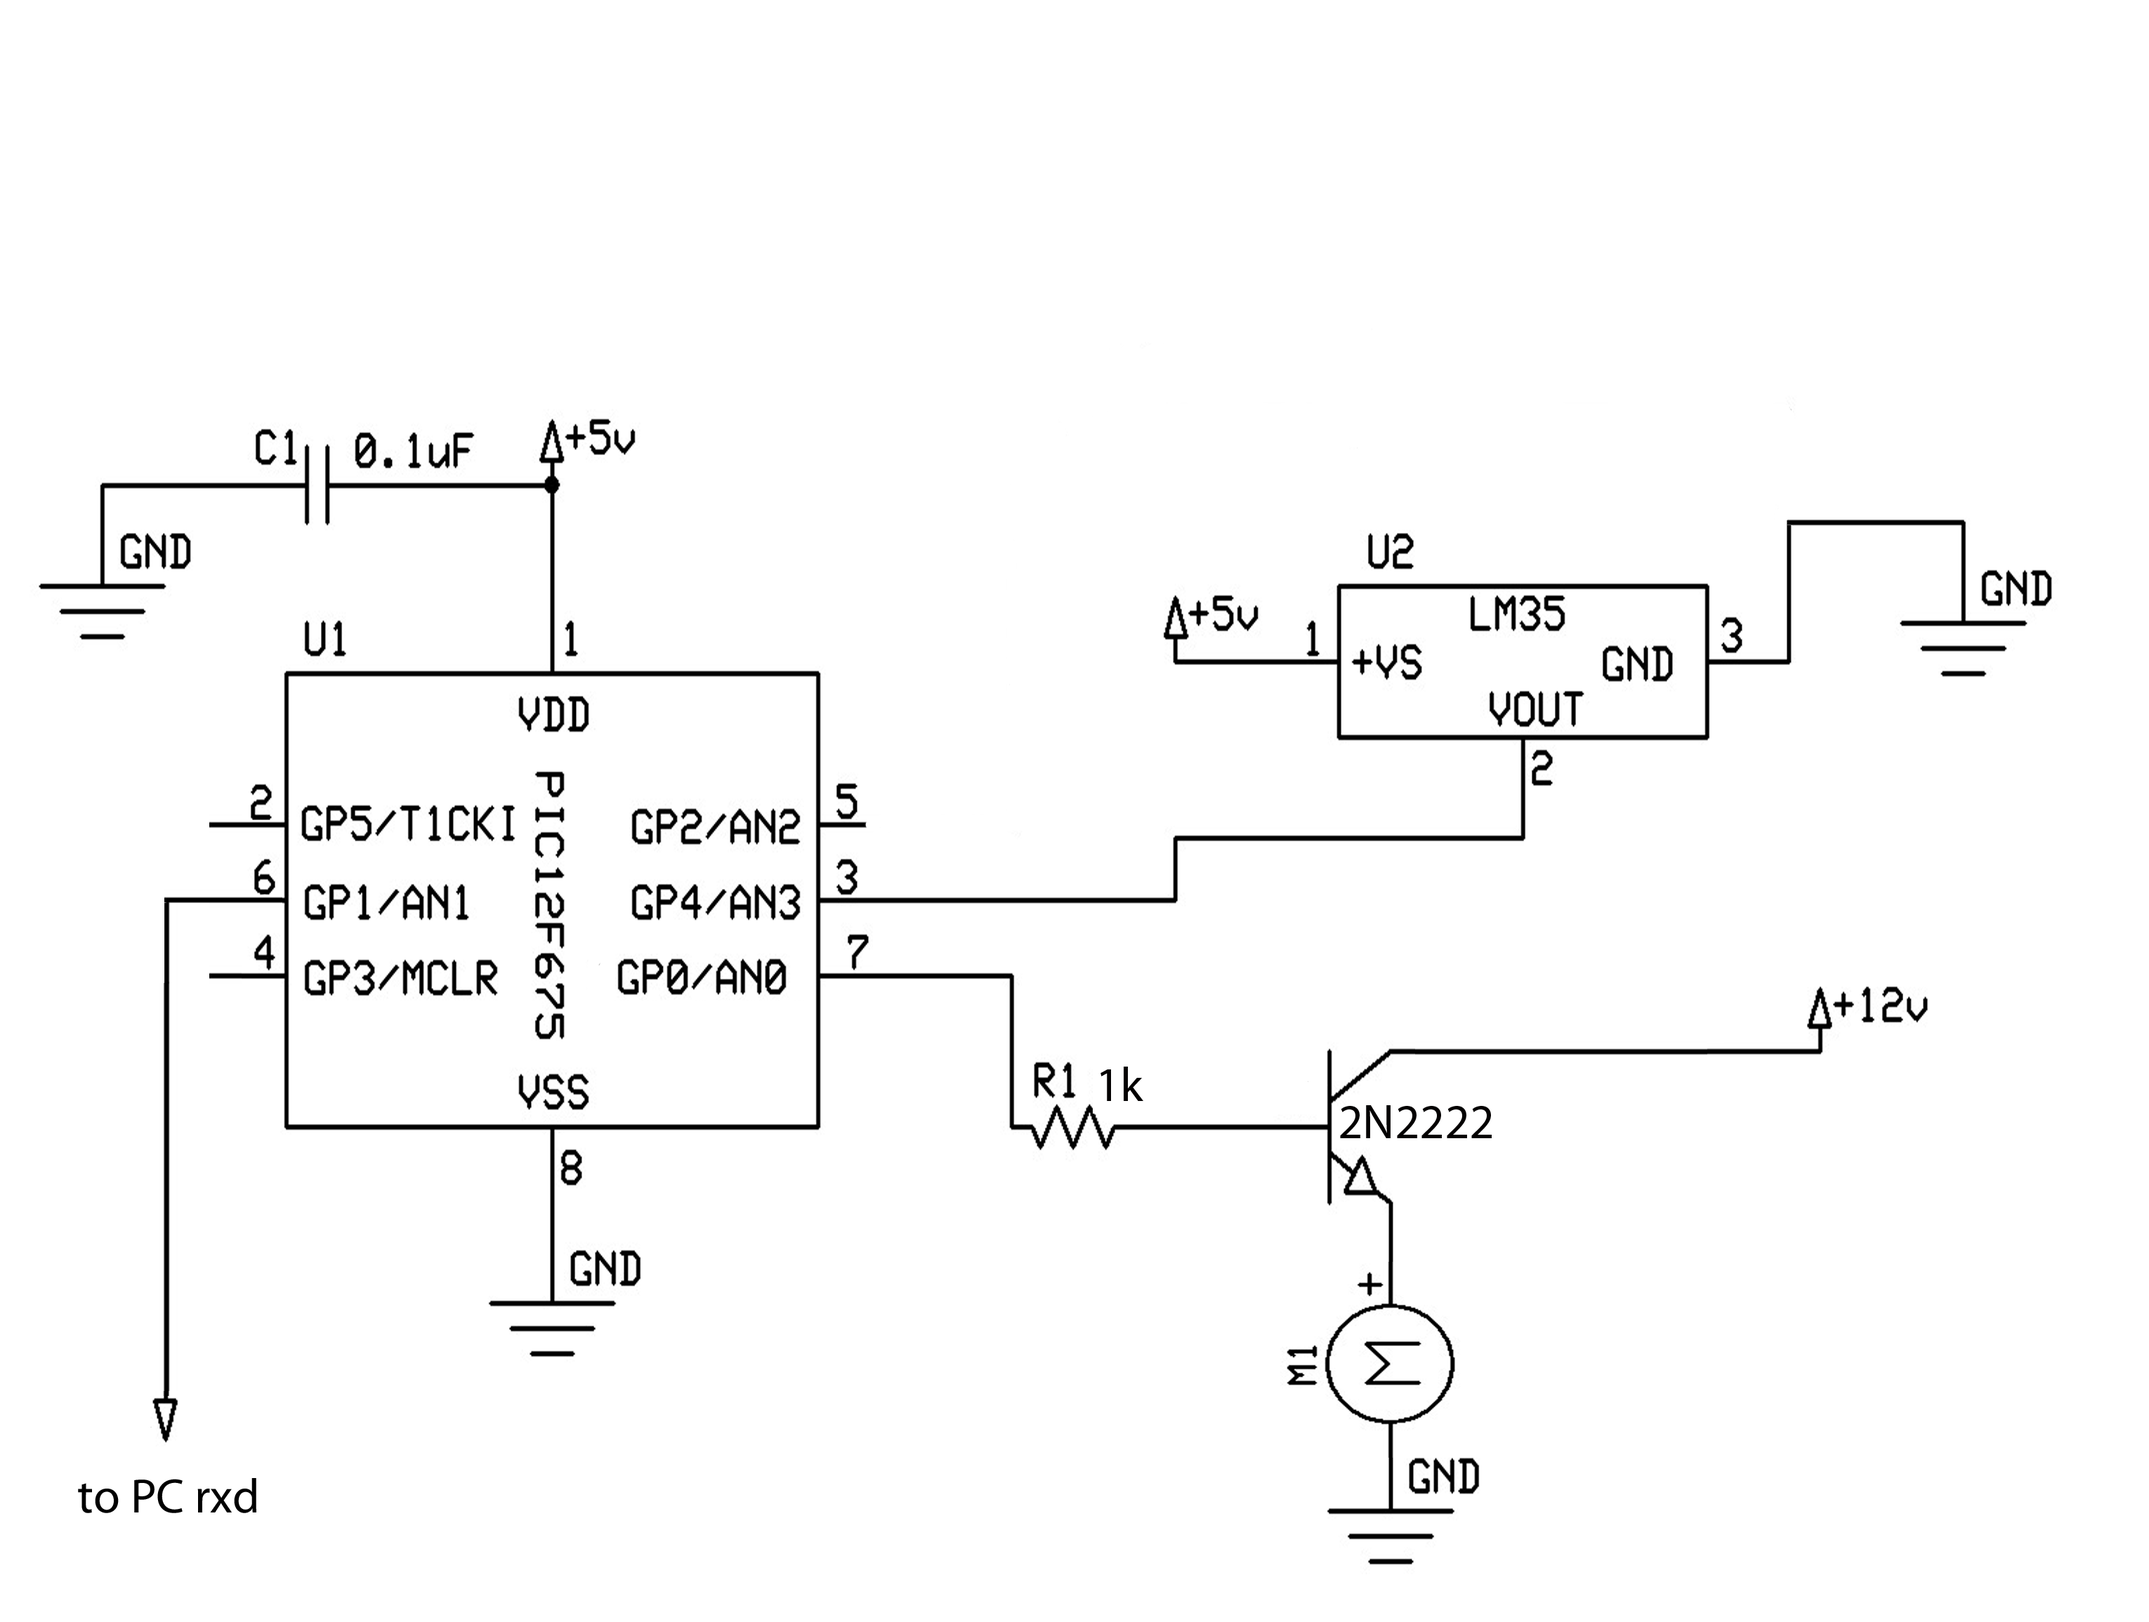
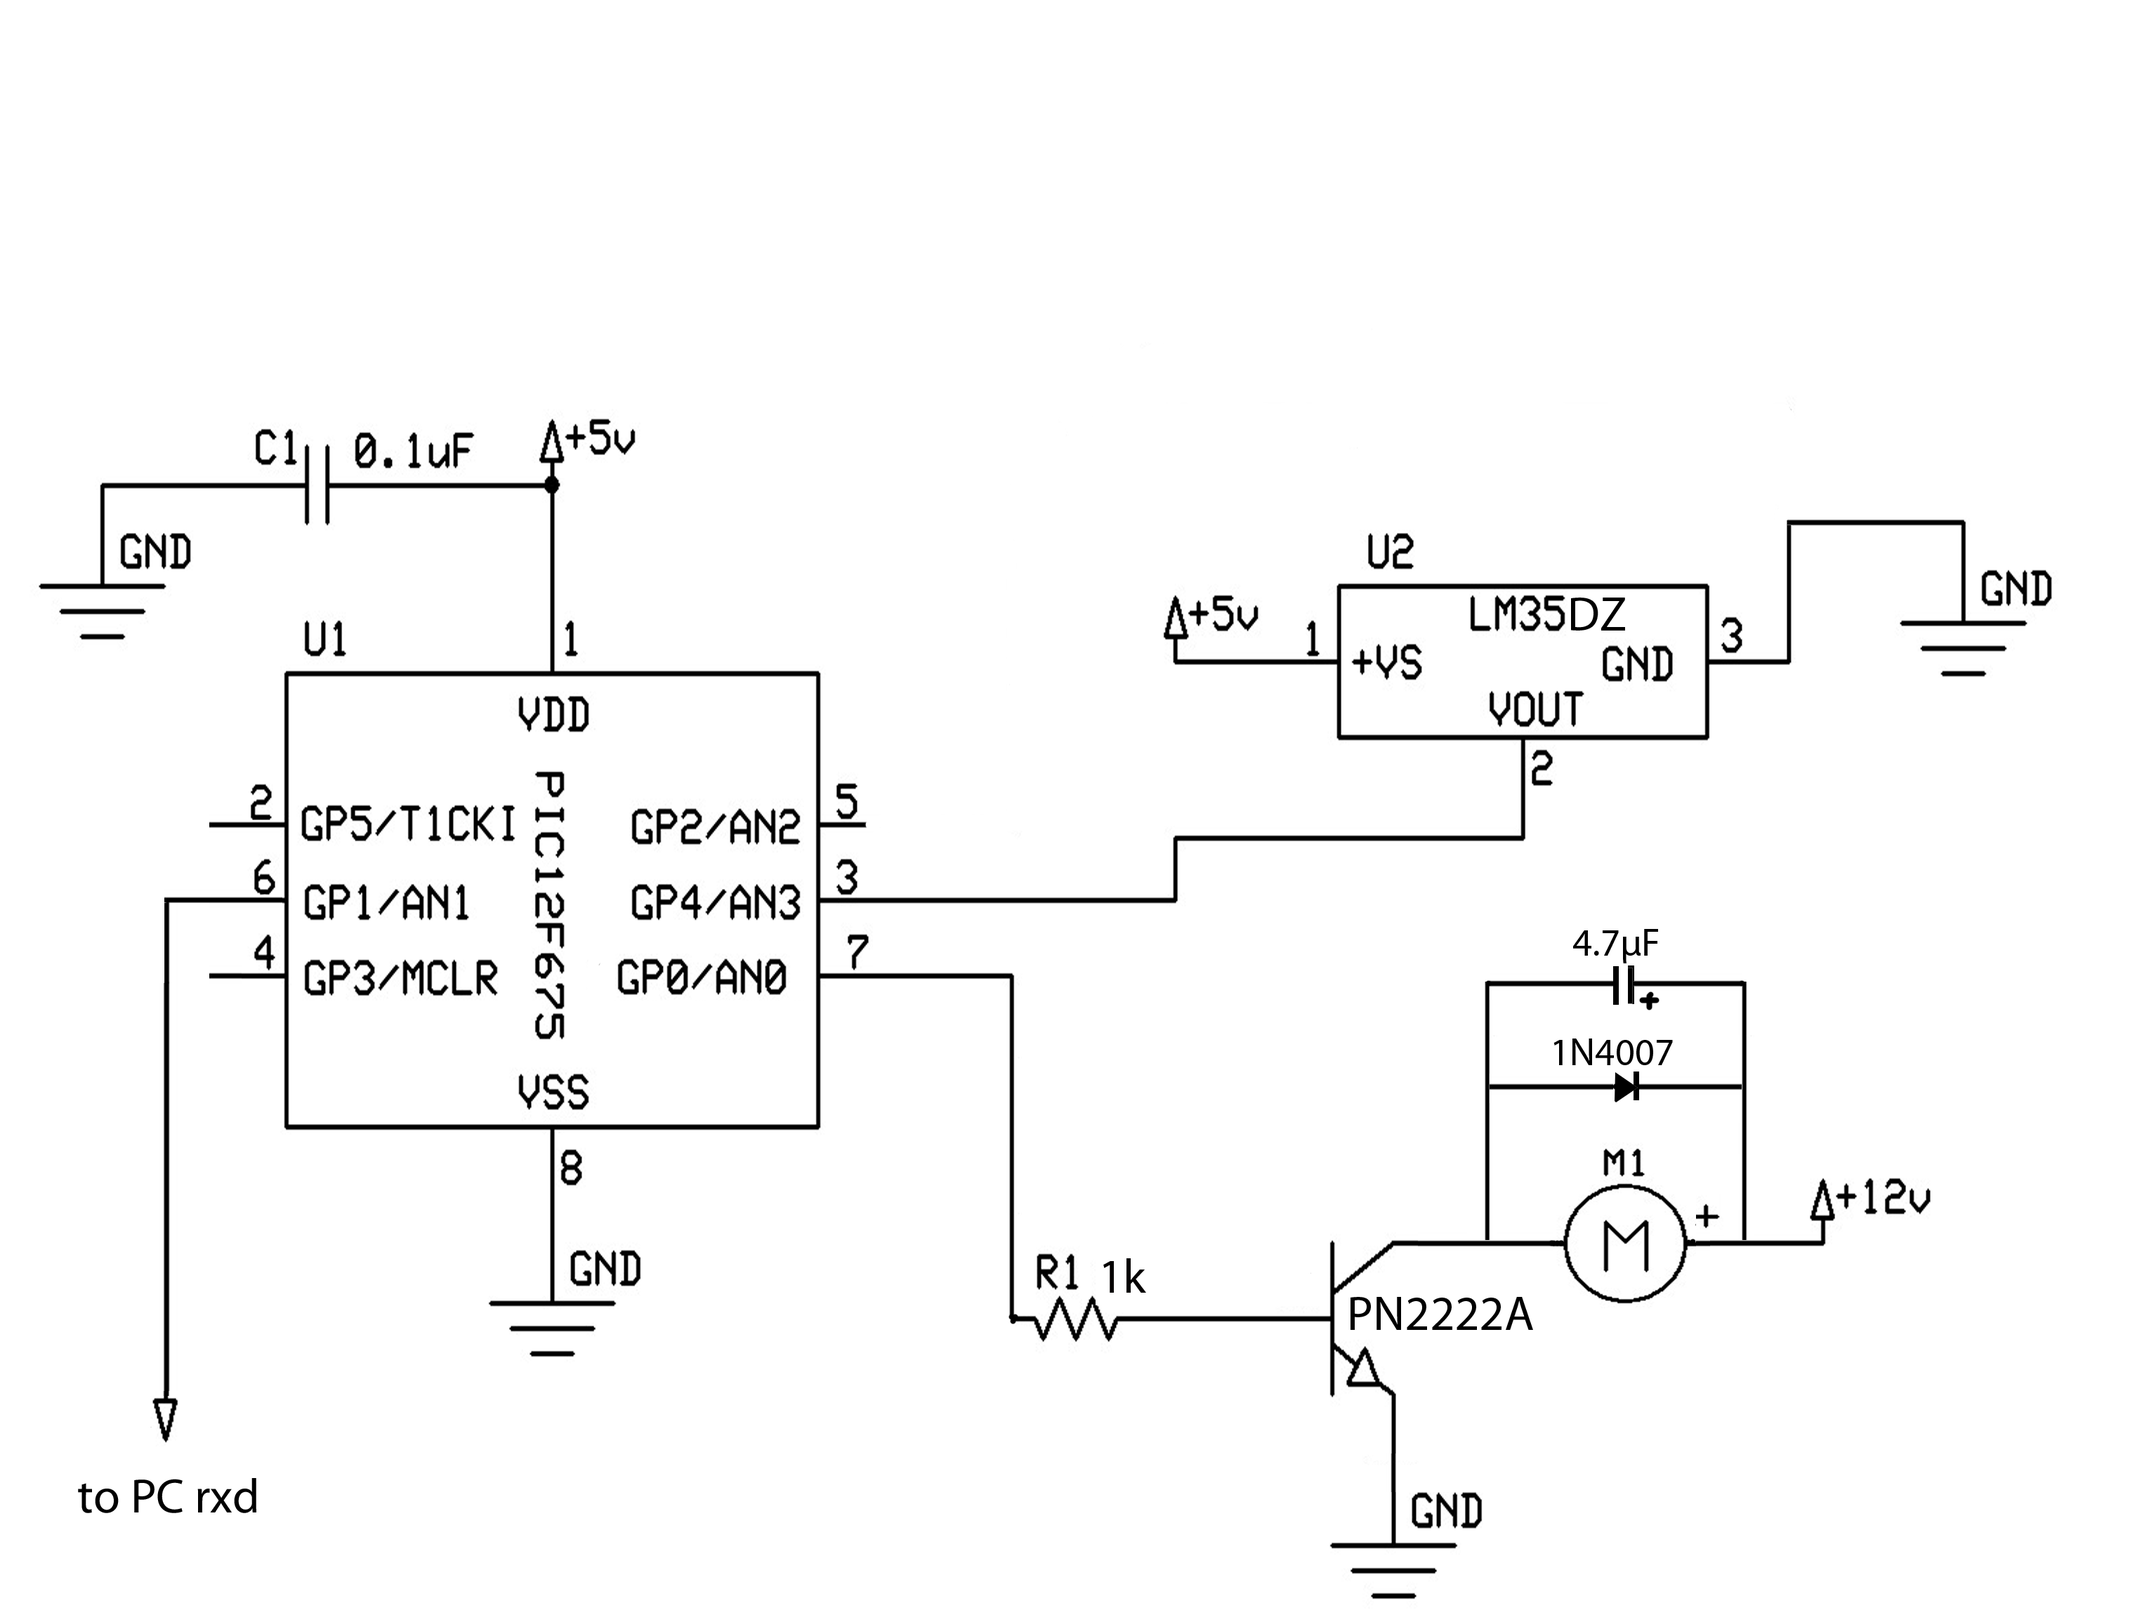
clean previous mess, new one is tested and fully working

Changed region(s): [[0.4657, 0.6545, 0.9003, 0.9974], [0.652, 0.561, 0.9003, 0.6857]]

diff --git a/projects/pwm_fan/pwm_fan.c b/projects/pwm_fan/pwm_fan.c
@@ -14,12 +14,13 @@
  *  Revision : None
  */
 
-/*  name            : pwm_fan.c
- *	purpose         : pwm fan for Dreambox DM920
- *	URL             : https://github.com/munjeni/pic_12F675_projects
- *	code based on   : two authors work above this comment
- *	date            : 29.04.2019
- *	Compiler        : xc8 v2.05
+/*  Name            : pwm_fan.c
+ *  Purpose         : pwm fan for Dreambox DM920
+ *  URL             : https://github.com/munjeni/pic_12F675_projects/tree/master/projects/pwm_fan
+ *  Code based on   : two authors work above this comment
+ *  Date            : 29.04.2019
+ *  Compiler        : xc8 v2.05
+ *  IDE             : xc8 ide v5.15
  */
 
 /*
@@ -46,8 +47,8 @@ GP4/AN3/T1G/OSC2/CLKOUT  3 |          | 6  GP1/AN1/CIN-/VREF/ICSPCLK
     ANSEL — ANALOG SELECT REGISTER
     ------------------------------------------------------------
       U-0   RW-0    RW-0    RW-0   RW-1   RW-1   RW-1   RW-1      (default values, 1=set, 0=set, x=unknown)
-	  —    ADCS2   ADCS1   ADCS0   ANS3   ANS2   ANS1   ANS0
-	bit7    bit6   bit5    bit4    bit3   bit2   bit1   bit0
+	  -    ADCS2   ADCS1   ADCS0   ANS3   ANS2   ANS1   ANS0
+	 bit7   bit6    bit5    bit4   bit3   bit2   bit1   bit0
 	------------------------------------------------------------
 	
 	bit 7 Unimplemented: Read as ‘0’.
@@ -74,7 +75,7 @@ GP4/AN3/T1G/OSC2/CLKOUT  3 |          | 6  GP1/AN1/CIN-/VREF/ICSPCLK
 	ADCON0 — A/D CONTROL REGISTER	
     ------------------------------------------------------------
 	RW-0    RW-0    U-0     U-0    RW-0   RW-0    RW-0     RW-0     (default values, 1=set, 0=set, x=unknown)
-	ADFM    VCFG    —        —     CHS1   CHS0   GO/DONE   ADON
+	ADFM    VCFG     -       -     CHS1   CHS0   GO/DONE   ADON
 	bit7    bit6   bit5    bit4    bit3   bit2    bit1     bit0
 	------------------------------------------------------------
 
@@ -107,7 +108,7 @@ GP4/AN3/T1G/OSC2/CLKOUT  3 |          | 6  GP1/AN1/CIN-/VREF/ICSPCLK
 	TRISIO — GPIO TRISTATE REGISTER
 	-----------------------------------------------------------------
 	 U-0     U-0    RW-x      RW-x     R-1        RW-x     RW-x     RW-x   (default values, 1=set, 0=set, x=unknown)
-	  —       —    TRISIO5  TRISIO4  TRISIO3    TRISIO2  TRISIO1   TRISIO0
+	  -       -    TRISIO5  TRISIO4  TRISIO3    TRISIO2  TRISIO1   TRISIO0
 	bit7     bit6   bit5      bit4    bit3        bit2     bit1     bit0
 	-----------------------------------------------------------------
 
@@ -121,17 +122,26 @@ GP4/AN3/T1G/OSC2/CLKOUT  3 |          | 6  GP1/AN1/CIN-/VREF/ICSPCLK
 	
 	*/
 
+// PIC12F675 Configuration Bit Settings
+#pragma config FOSC = INTRCIO	// Oscillator Selection bits (INTOSC oscillator: I/O function on GP4/OSC2/CLKOUT pin, I/O function on GP5/OSC1/CLKIN)
+#pragma config WDTE = OFF		// Watchdog Timer Enable bit (WDT disabled)
+#pragma config PWRTE = ON		// Power-Up Timer Enable bit (PWRT enabled)
+#pragma config MCLRE = OFF		// MCLR
+#pragma config BOREN = ON		// Brown-out Detect Enable bit (BOD enabled)
+#pragma config CP = OFF			// Code Protection bit (Program Memory code protection is disabled)
+#pragma config CPD = OFF		// Data Code Protection bit (Data memory code protection is disabled)
+
 #include <xc.h>
 #include <stdio.h>	/* for sprintf */
-#include <stdint.h>	/* For uint8_t definitions etc */
-#include <string.h>	/* For strlen */
+#include <stdint.h>	/* For uint16_t definition */
 
-// set 0 to disable uart debug
-#define ENABLE_UART_DEBUG 1
+// set 0 to disable debuging
+#define ENABLE_UART_DEBUG   0
+#define DEBUG_TO_EEPROM   0
 
 // Define CPU Frequency
 // This must be defined, if __delay_ms() or __delay_us() functions are used in the code
-#define _XTAL_FREQ   4000000
+#define _XTAL_FREQ	4000000
 
 /*
 	PIC TIMER0 Calculator
@@ -147,31 +157,23 @@ GP4/AN3/T1G/OSC2/CLKOUT  3 |          | 6  GP1/AN1/CIN-/VREF/ICSPCLK
 	(1000000/256) * 32 ~= 8mS				
 */
 
-// PIC12F675 Configuration Bit Settings 
-#pragma config FOSC = INTRCIO	// Oscillator Selection bits (INTOSC oscillator: I/O function on GP4/OSC2/CLKOUT pin, I/O function on GP5/OSC1/CLKIN)
-#pragma config WDTE = OFF		// Watchdog Timer Enable bit (WDT disabled)
-#pragma config PWRTE = ON		// Power-Up Timer Enable bit (PWRT enabled)
-#pragma config MCLRE = OFF		// MCLR
-#pragma config BOREN = ON		// Brown-out Detect Enable bit (BOD enabled)
-#pragma config CP = OFF			// Code Protection bit (Program Memory code protection is disabled)
-#pragma config CPD = OFF		// Data Code Protection bit (Data memory code protection is disabled)
-
 #if ENABLE_UART_DEBUG
-#define Baudrate              1200                      //bps
-#define OneBitDelay           (1000000/Baudrate)
-#define DataBitCount          8                         // no parity, no flow control
-#define UART_TX               GP1						// UART TX pin
-#define UART_TX_DIR			  TRISIO1					// UART TX pin direction register
+#define Baudrate        1200                //bps
+#define OneBitDelay     (1000000/Baudrate)  //...this might be wrong delay! See https://drive.google.com/file/d/0BwXmKaSw75eKdjI2elFsWW5Rd28/view
+#define DataBitCount    8                   // no parity, no flow control
+#define UART_TX         GP1                 // UART TX pin
+#define UART_TX_DIR     TRISIO1             // UART TX pin direction register
 #endif
 
-#define PWM_Pin               GP0
+#define PWM_Pin GP0
 // Define PWM variable, It can have a value 
 // from 0 (0% duty cycle) to 255 (100% duty cycle)
 unsigned char PWM = 0;
 
 #if ENABLE_UART_DEBUG
-void UART_Transmit(const char DataValue)
+void UART_Transmit(unsigned char DataValue)
 {
+	unsigned char i;
 	/* Basic Logic
 	   
 	   TX pin is usually high. A high to low bit is the starting bit and 
@@ -184,10 +186,10 @@ void UART_Transmit(const char DataValue)
 	UART_TX = 0;
 	__delay_us(OneBitDelay);
 
-	for (unsigned char i=0; i < DataBitCount; i++)
+	for (i=0; i < DataBitCount; i++)
 	{
 		// Set Data pin according to the DataValue
-		if (((DataValue>>i)&0x1) == 0x1)	//if Bit is high
+		if (((DataValue >> i) & 0x1) == 0x1)	//if Bit is high
 		{
 			UART_TX = 1;
 		}
@@ -212,66 +214,71 @@ unsigned int GetADCValue(void)
 
     __delay_ms(10);      // Time for Acqusition capacitor to charge up and show correct value
 
-	GO_nDONE  = 1;		 // Enable Go/Done
+	GO_nDONE = 1;		 // Enable Go/Done
 
 	while(GO_nDONE);     //wait for conversion completion
 
 	return ((ADRESH<<8)+ADRESL);   // Return 10 bit ADC value
 }
 
-void interrupt ISR(void)
+void __interrupt() ISR(void)
 {
-	if(T0IF)  //If Timer0 Interrupt
+	if(T0IF)            // If Timer0 Interrupt
 	{
-		if(PWM_Pin)	// if PWM_Pin is high
-		{
-			PWM_Pin = 0;
-			TMR0 = PWM;
-		}
-		else	     // if PWM_Pin is low
-		{
-			PWM_Pin = 1;
-			TMR0 = 255 - PWM;
-		}
+        if (!PWM)       // Since this frequency is in audible range, shutdown motor noise
+        {
+            PWM_Pin = 0;
+            TMR0 = PWM;
+        }
+        else
+        {
+            if(PWM_Pin)     // if PWM_Pin is high
+            {
+                PWM_Pin = 0;
+                TMR0 = PWM;
+            }
+            else            // if PWM_Pin is low
+            {
+                PWM_Pin = 1;
+                TMR0 = 255 - PWM;
+            }
+        }
 
-		T0IF = 0;   // Clear the interrupt
+		T0IF = 0;       // Clear the interrupt
 	}
 }
 
-void main()
+void main(void)
 {	
 	unsigned int ADC_value = 0;
-	//unsigned int ADC_value = 71;	//(Temperature: 34.79 C)(pwm 30% = 77)
-	//unsigned int ADC_value = 113;	//(Temperature: 55.37 C)(pwm 100% = 255)
 #if ENABLE_UART_DEBUG
-	uint16_t temperature = 1;
+	unsigned int temperature = 1;
 	char str1[3];
 	char str2[3];
 	char str3[5];
-	size_t i;
+	uint8_t i;
 #endif
 
-	// Initialize GP4 as ADC input pin
-	ANSEL  = 0x18;	      // Clear Pin selection bits
-	TRISIO = 0x10;       // GP4 input, rest all output
-	ADCON0 = 0x81;		 // Turn on the A/D Converter ADFM and ADON
-	CMCON  = 0x07;		 // Shut off the Comparator, so that pins are available for ADC
-	VRCON  = 0x00;	     // Shut off the Voltage Reference for Comparator
+	OSCCAL = __osccal_val();    // Load Oscillator Calibration
+	ANSEL  = 0x48;              // Clear Pin selection bits (set FOSC/4 ; ANS3 analog input)
+	TRISIO = 0x10;              // GP4 input, rest all output
+	GPIO   = 0x00;              // Clear gpio
+	ADCON0 = 0x81;		        // Turn on the A/D Converter ADFM and ADON
+	CMCON  = 0x07;		        // Shut off the Comparator, so that pins are available for ADC
+	VRCON  = 0x00;	            // Shut off the Voltage Reference for Comparator
 
 	// Initialize PWM
 	// Use timer0 for making PWM
-	OPTION_REG &= 0xCC;		// Intialise timer0
-	//INTCON = 0b10100000;		// Global Interrupt Enabled and TMR0 Overflow Interrupt Enabled
-	TMR0 = 0;		// Preload timer register
-	T0IE = 1;		// Enable Timer0 interrupt
-	GIE = 1;		// Enable global interrupts
-
-	GPIO = 0x00;       // Make all pins 0
+	OPTION_REG &= 0xcc;         // Intialise timer0 (prescaler 1/32)
+	//INTCON = 0b10100000;      // Global Interrupt Enabled and TMR0 Overflow Interrupt Enabled
+	TMR0 = 0;                   // Preload timer register
+	T0IE = 1;                   // Enable Timer0 interrupt
+	GIE = 1;                    // Enable global interrupts
 
 #if ENABLE_UART_DEBUG
 	// Intialize Soft UART
-	UART_TX = 1;			// TX pin is high in idle state	GP1=1
-	UART_TX_DIR = 0;		// set TRISIO1=0 as output direction
+	UART_TX = 1;                // TX pin is high in idle state	GP1=1
+	UART_TX_DIR = 0;            // set TRISIO1=0 as output direction
 #endif
 
 	while(1)
@@ -281,88 +288,20 @@ void main()
 #if ENABLE_UART_DEBUG		
 		for (i=0; i<5; i++) str3[i] = '\0';
 #endif
-
-		/*
-		pwm table:
-		------------
-		(adc)71 =  (pwm)77  = 30%
-		(adc)77 =  (pwm)102 = 40%
-		(adc)83 =  (pwm)127 = 50%
-		(adc)89 =  (pwm)152 = 60%
-		(adc)95 =  (pwm)177 = 70%
-		(adc)101 = (pwm)202 = 80%
-		(adc)107 = (pwm)227 = 90%
-		(adc)113 = (pwm)255 = 100%
-		*/
 	
-		if (ADC_value < 71) {
-			PWM = 0;
-#if ENABLE_UART_DEBUG
-			sprintf(str3, "%u", ADC_value);
-#endif
-		}
-	
-		if (ADC_value >= 71 && ADC_value < 77) {
-			PWM = 77;
-#if ENABLE_UART_DEBUG
-			sprintf(str3, "%u", ADC_value);
-#endif
-		}
-	
-		if (ADC_value >= 77 && ADC_value < 83) {
-			PWM = 102;
-#if ENABLE_UART_DEBUG
-			sprintf(str3, "%u", ADC_value);
-#endif
-		}
-	
-		if (ADC_value >= 83 && ADC_value < 89) {
-			PWM = 127;
-#if ENABLE_UART_DEBUG
-			sprintf(str3, "%u", ADC_value);
-#endif
-		}
-	
-		if (ADC_value >= 89 && ADC_value < 95) {
-			PWM = 152;
-#if ENABLE_UART_DEBUG
-			sprintf(str3, "%u", ADC_value);
-#endif
-		}
-	
-		if (ADC_value >= 95 && ADC_value < 101) {
-			PWM = 177;
-#if ENABLE_UART_DEBUG
-			sprintf(str3, "%u", ADC_value);
-#endif
-		}
-	
-		if (ADC_value >= 101 && ADC_value < 107) {
-			PWM = 202;
-#if ENABLE_UART_DEBUG
-			sprintf(str3, "%u", ADC_value);
-#endif
-		}
-	
-		if (ADC_value >= 107 && ADC_value < 113) {
-			PWM = 227;
-#if ENABLE_UART_DEBUG
-			sprintf(str3, "%u", ADC_value);
-#endif
-		}
-	
-		if (ADC_value >= 113) {
-			PWM = 255;
-#if ENABLE_UART_DEBUG
-			sprintf(str3, "%u", ADC_value);
-#endif
-		}
+		if (ADC_value < 75) PWM = 0;
+		if (ADC_value >= 75 && ADC_value < 78) PWM = 200;
+		if (ADC_value >= 78 && ADC_value < 81) PWM = 215;
+		if (ADC_value >= 81 && ADC_value < 84) PWM = 230;
+		if (ADC_value >= 84 && ADC_value < 87) PWM = 245;
+		if (ADC_value >= 87) PWM = 255;
 
 #if ENABLE_UART_DEBUG
 		temperature = (ADC_value*49);
 
 		sprintf(str1, "%u%u", (temperature/1000)%10, (temperature/100)%10);
 		sprintf(str2, "%u%u", (temperature/10)%10, (temperature/1)%10);
+		sprintf(str3, "%u", ADC_value);
 
 		UART_Transmit('T');
 		UART_Transmit('e');
@@ -377,13 +316,9 @@ void main()
 		UART_Transmit('e');
 		UART_Transmit(':');
 		UART_Transmit(' ');
-
 		for (i=0; i<2; i++) UART_Transmit(str1[i]);
-
 		UART_Transmit('.');		
-
 		for (i=0; i<2; i++) UART_Transmit(str2[i]);
-
 		UART_Transmit(' ');
 		UART_Transmit('C');
 
@@ -394,10 +329,35 @@ void main()
 		UART_Transmit('C');
 		UART_Transmit(':');
 		UART_Transmit(' ');
+		for (i=0; i<5; i++)
+        {
+            if (str3[i] == '\0') break;
+            UART_Transmit(str3[i]);
+        }
 
-		for (i=0; i<strlen(str3); i++) UART_Transmit(str3[i]);
+		UART_Transmit(0x0D);
+        UART_Transmit(0x0A);
 
-		UART_Transmit(0x0A);
+#if DEBUG_TO_EEPROM
+        /*  In case you can't get UART working so write log to EEPROM
+         *  e.g. T=18.62 celsius A=38 adc_value :)
+         */
+        eeprom_write(0, 'T');
+        eeprom_write(1, '=');
+        eeprom_write(2, str1[0]);
+        eeprom_write(3, str1[1]);
+        eeprom_write(4, '.');
+        eeprom_write(5, str2[0]);
+        eeprom_write(6, str2[1]);
+        eeprom_write(7, ' ');
+        eeprom_write(8, 'A');
+        eeprom_write(9, '=');
+		for (i=10; i<15; i++)
+        {
+            if (str3[i-10] == '\0') break;
+            eeprom_write(i, str3[i-10]);
+        }
+#endif
 #endif
 
 		__delay_ms(500);	// Half second delay before next reading	

diff --git a/README.md b/README.md
@@ -55,7 +55,7 @@ Assembly.
 | 5  | RGB LED display  |  [URL](projects/rgb_c) |
 | 6  | Output the Internal PIC clock | [URL](projects/osc_c) |
 | 7  | Light Dependent resistor Circuit |  [URL](projects/LDR) |
-| 8  | PWM Fan Circuit (didn't tested!)|  [URL](projects/pwm_fan) |
+| 8  | PWM Fan Circuit for Dreambox DM920|  [URL](projects/pwm_fan) |
 
 
 Communication
